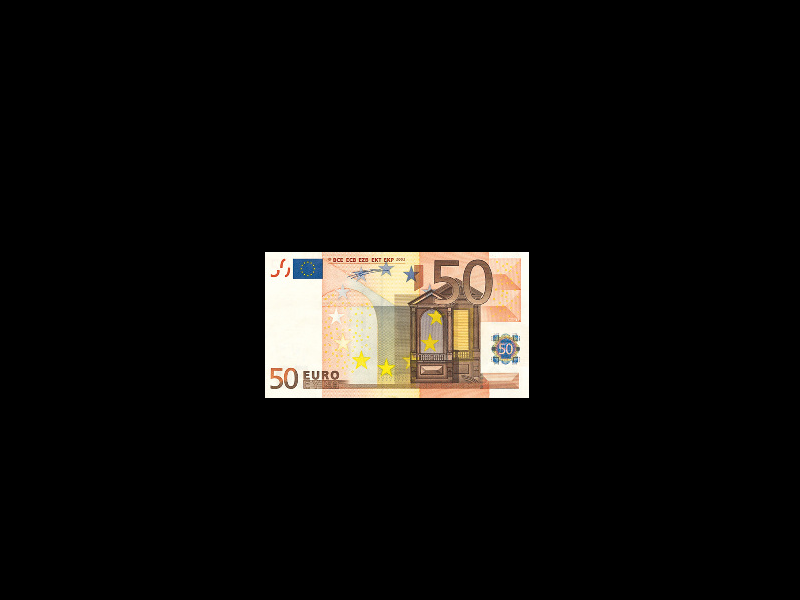
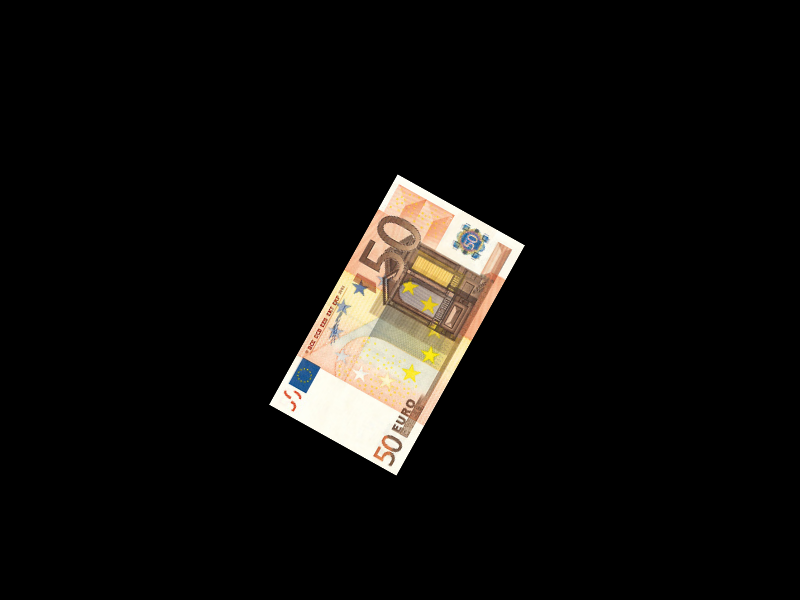
Early working version for single 50 EUR bill.

Changed region(s): [[0.3125, 0.3, 0.6875, 0.81]]

diff --git a/EuroMatch/src/pt/up/fe/rvau/euromatch/EuroMatch.java b/EuroMatch/src/pt/up/fe/rvau/euromatch/EuroMatch.java
@@ -6,18 +6,30 @@
 
 package pt.up.fe.rvau.euromatch;
 
+import pt.up.fe.rvau.euromatch.jutils.PointUtils;
 import java.io.IOException;
 import java.util.ArrayList;
+import java.util.Collections;
 import java.util.List;
+import org.opencv.calib3d.Calib3d;
+import org.opencv.core.Core;
+import org.opencv.core.CvType;
 import org.opencv.core.Mat;
+import org.opencv.core.MatOfByte;
 import org.opencv.core.MatOfDMatch;
 import org.opencv.core.MatOfKeyPoint;
+import org.opencv.core.MatOfPoint2f;
+import org.opencv.core.Point;
+import org.opencv.core.Scalar;
 import org.opencv.features2d.DMatch;
 import org.opencv.features2d.DescriptorExtractor;
 import org.opencv.features2d.DescriptorMatcher;
 import org.opencv.features2d.FeatureDetector;
+import org.opencv.features2d.Features2d;
+import org.opencv.features2d.KeyPoint;
 import org.opencv.highgui.Highgui;
 import pt.up.fe.rvau.euromatch.jutils.ImageConverter;
+import pt.up.fe.rvau.euromatch.jutils.MatConverter;
 import pt.up.fe.rvau.euromatch.jutils.VisualHelper;
 
 /**
@@ -45,8 +57,10 @@ public class EuroMatch {
         
         MatOfKeyPoint objectKeypoints = new MatOfKeyPoint();
         featureDetector.detect(object, objectKeypoints);
+        List<KeyPoint> objectKeypointsList = objectKeypoints.toList();
         MatOfKeyPoint sceneKeypoints = new MatOfKeyPoint();
         featureDetector.detect(scene, sceneKeypoints);
+        List<KeyPoint> sceneKeypointsList = sceneKeypoints.toList();
         
         DescriptorExtractor extractor = DescriptorExtractor.create(DescriptorExtractor.SURF);
         
@@ -71,8 +85,76 @@ public class EuroMatch {
         System.out.println("Min: " + minDistance);
         System.out.println("Max: " + maxDistance);
         
+        List<DMatch> goodMatches = new ArrayList<>();
+        for (DMatch match : matchesList) {
+            if (match.distance < 3 * minDistance) {
+                goodMatches.add(match);
+            }
+        }
+        MatOfDMatch goodMatchesMat = MatConverter.convert(goodMatches);
+        
+        Mat imageWithMatches = new Mat();
+        Features2d.drawMatches(object, objectKeypoints, scene, sceneKeypoints,
+                goodMatchesMat, imageWithMatches, Scalar.all(-1), Scalar.all(-1),
+                new MatOfByte(), Features2d.NOT_DRAW_SINGLE_POINTS);
+        
+        
+        List<Point> objPoints = new ArrayList<>();
+        List<Point> scenePoints = new ArrayList<>();
+        for (DMatch goodMatch : goodMatches) {
+            objPoints.add(objectKeypointsList.get(goodMatch.queryIdx).pt);
+            scenePoints.add(sceneKeypointsList.get(goodMatch.trainIdx).pt);
+        }
+        MatOfPoint2f objPointsMat = MatConverter.convertToMatOfPoint2f(objPoints);
+        MatOfPoint2f scenePointsMat = MatConverter.convertToMatOfPoint2f(scenePoints);
+        
+        Mat homography = Calib3d.findHomography(objPointsMat, scenePointsMat, Calib3d.RANSAC, 3);
+        List<Point> cornersInObject = new ArrayList<>();
+        cornersInObject.add(new Point(0, 0));
+        cornersInObject.add(new Point(object.cols(), 0));
+        cornersInObject.add(new Point(object.cols(), object.rows()));
+        cornersInObject.add(new Point(0, object.rows()));
+        Mat cornersInObjectMat = MatConverter.convertToMatOfType(cornersInObject, CvType.CV_32FC2);
+        
+        System.out.println(cornersInObjectMat.get(2, 0).length);
+        System.out.println(cornersInObjectMat.get(2, 0)[0]);
+        System.out.println(cornersInObjectMat.get(2, 0)[1]);
+        
+        Mat cornersInSceneMat = new Mat(4, 1, CvType.CV_32FC2);
+        Core.perspectiveTransform(cornersInObjectMat, cornersInSceneMat, homography);
+        List<Point> cornersInScene = MatConverter.toPointList(cornersInSceneMat);
+       
+        System.out.println(cornersInScene.get(0));
+        System.out.println(cornersInScene.get(1));
+        System.out.println(cornersInScene.get(2));
+        
+        Core.line(
+                imageWithMatches,
+                PointUtils.add(cornersInScene.get(0), new Point(object.cols(), 0)),
+                PointUtils.add(cornersInScene.get(1), new Point(object.cols(), 0)),
+                new Scalar(0, 0, 255),
+                4);
+        Core.line(
+                imageWithMatches,
+                PointUtils.add(cornersInScene.get(1), new Point(object.cols(), 0)),
+                PointUtils.add(cornersInScene.get(2), new Point(object.cols(), 0)),
+                new Scalar(0, 255, 0),
+                4);
+        Core.line(
+                imageWithMatches,
+                PointUtils.add(cornersInScene.get(2), new Point(object.cols(), 0)),
+                PointUtils.add(cornersInScene.get(3), new Point(object.cols(), 0)),
+                new Scalar(255, 0, 255),
+                4);
+        Core.line(
+                imageWithMatches,
+                PointUtils.add(cornersInScene.get(3), new Point(object.cols(), 0)),
+                PointUtils.add(cornersInScene.get(0), new Point(object.cols(), 0)),
+                new Scalar(255, 0, 0),
+                4);
+        
         try {
-            VisualHelper.showImageFrame(ImageConverter.convert(object, 640, 480));
+            VisualHelper.showImageFrame(ImageConverter.convert(imageWithMatches, 640, 480));
         } catch (IOException e) {
             e.printStackTrace();
         }

diff --git a/EuroMatch/src/pt/up/fe/rvau/euromatch/jutils/MatConverter.java b/EuroMatch/src/pt/up/fe/rvau/euromatch/jutils/MatConverter.java
@@ -1,0 +1,43 @@
+/*
+ * To change this license header, choose License Headers in Project Properties.
+ * To change this template file, choose Tools | Templates
+ * and open the template in the editor.
+ */
+
+package pt.up.fe.rvau.euromatch.jutils;
+
+import java.util.List;
+import org.opencv.core.Mat;
+import org.opencv.core.MatOfDMatch;
+import org.opencv.core.MatOfPoint2f;
+import org.opencv.core.Point;
+import org.opencv.features2d.DMatch;
+
+/**
+ *
+ * @author luiscubal
+ */
+public class MatConverter {
+    private MatConverter() {}
+    
+    public static MatOfDMatch convert(List<DMatch> src) {
+        return new MatOfDMatch(src.toArray(new DMatch[src.size()]));
+    }
+    
+    public static MatOfPoint2f convertToMatOfPoint2f(List<Point> src) {
+        return new MatOfPoint2f(src.toArray(new Point[src.size()]));
+    }
+    
+    public static Mat convertToMatOfType(List<Point> points, int cvType) {
+        Mat mat = new Mat(4, 1, cvType);
+        for (int i = 0; i < points.size(); ++i) {
+            Point point = points.get(i);
+            mat.put(i, 0, point.x, point.y);
+        }
+        return mat;
+    }
+    
+    public static List<Point> toPointList(Mat cornersInSceneMat) {
+        return new MatOfPoint2f(cornersInSceneMat).toList();
+    }
+}

diff --git a/EuroMatch/src/pt/up/fe/rvau/euromatch/jutils/PointUtils.java b/EuroMatch/src/pt/up/fe/rvau/euromatch/jutils/PointUtils.java
@@ -1,0 +1,22 @@
+package pt.up.fe.rvau.euromatch.jutils;
+
+
+import org.opencv.core.Point;
+
+/*
+ * To change this license header, choose License Headers in Project Properties.
+ * To change this template file, choose Tools | Templates
+ * and open the template in the editor.
+ */
+
+/**
+ *
+ * @author luiscubal
+ */
+public class PointUtils {
+    private PointUtils() {}
+    
+    public static Point add(Point point1, Point point2) {
+        return new Point(point1.x + point2.x, point1.y + point2.y);
+    }
+}
